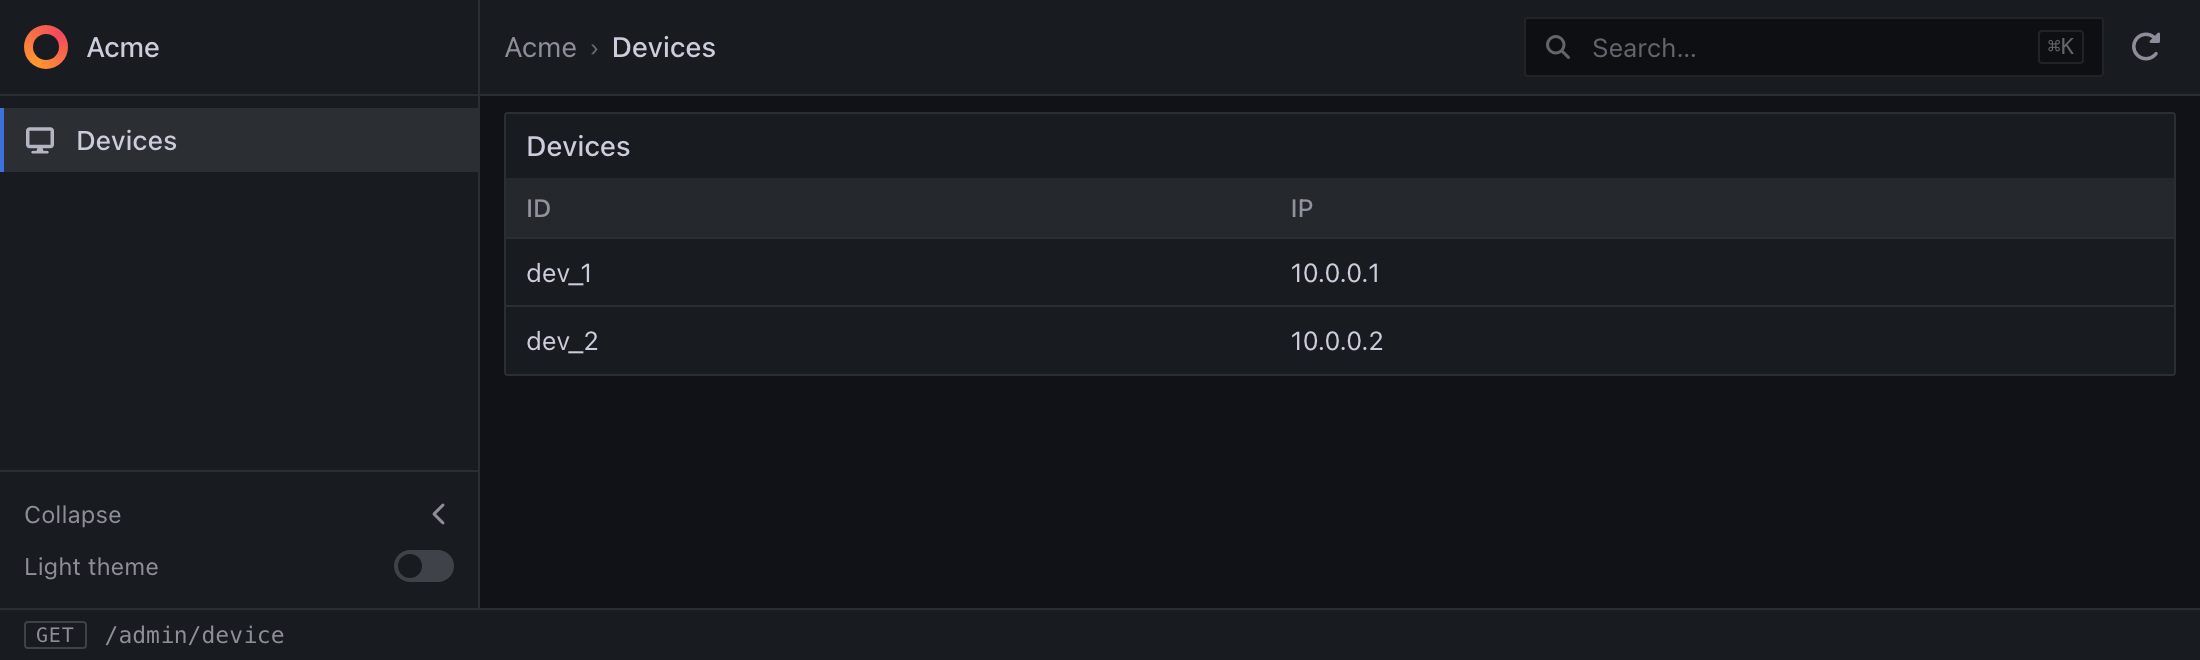
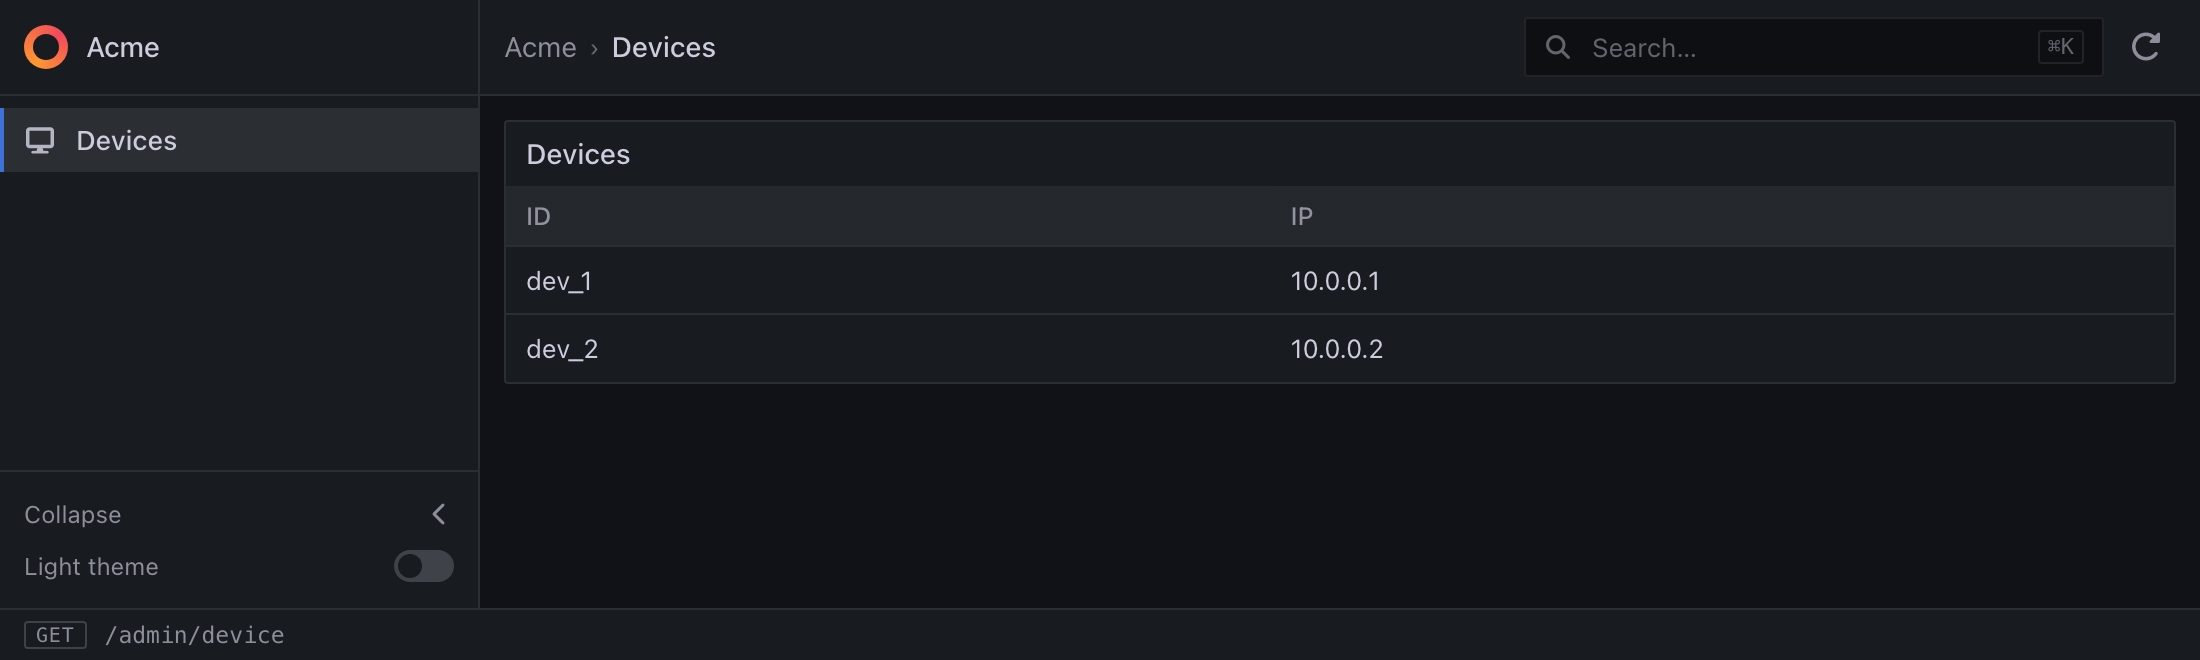
fix(render): Give the content the same space above as beside it

diff --git a/internal/render/assets/css/app.css b/internal/render/assets/css/app.css
@@ -601,7 +601,7 @@ a.side-brand:hover {
   flex: 1;
   min-height: 0;
   overflow: auto;
-  padding: 8px 12px 46px;
+  padding: 12px 12px 46px; /* the same space above the content as beside it */
 }
 
 /* ---------------------------------------------------------------------------
